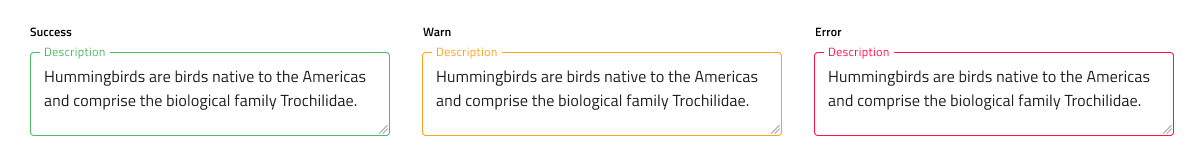
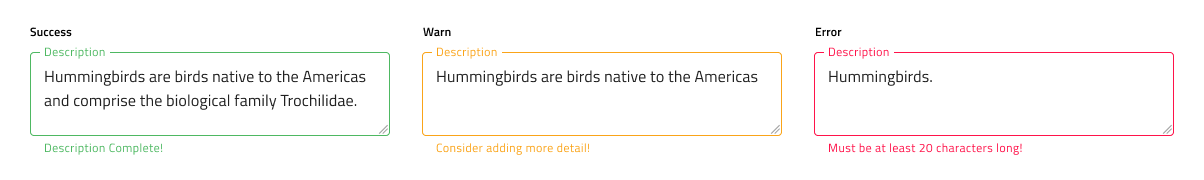
[40774] Text Area
Images and texts modified:

Hint Images removed.
Interaction State section text - modified.
Warn and Error states - image modified.
Resizing section - removed.

diff --git a/en/components/textarea.md b/en/components/textarea.md
@@ -26,39 +26,30 @@ The Text Area comes in three different sizes:
 
 
 ## Types
-In Figma we offer a choice between text area with or without a hint, which can be switched on/off through the `Hint` boolean property.
+In Figma we offer offer choice between two distinct types: border style and box style.
 
-| With a hint | Without a hint |
+| Border | Box|
 | ------- | ------- |
-| <img class="responsive-img" src="../images/textarea_hint.png" srcset="../images/textarea_hint@2x.png 2x" /> | <img class="responsive-img" src="../images/textarea_nohint.png" srcset="../images/textarea_nohint@2x.png 2x" /> |
+| <img class="responsive-img" src="../images/textarea_filled.png" srcset="../images/textarea_filled@2x.png 2x" /> | <img class="responsive-img" src="../images/textarea_filled_box.png" srcset="../images/textarea_filled_box@2x.png 2x" /> |
 
-We offer choice between two distinct types: border style and boxed style.
-
-<img class="responsive-img" src="../images/textarea_filled.png" srcset="../images/textarea_filled@2x.png 2x" /><img class="responsive-img" src="../images/textarea_filled_box.png" srcset="../images/textarea_filled_box@2x.png 2x" />
 
 ## Interaction State
 
-The Text Area can be switched from an enabled to disabled state from the `Disabled` boolean property.
+In Figma, both border and box type Text Area can be set to a Disabled state using the properties panel.
 
 <img class="responsive-img" src="../images/textarea_interaction.png" srcset="../images/textarea_interaction@2x.png 2x" /> 
 
 ## State
 
-When the user interacts with the Text Area, it goes through various states: Idle with a placeholder in the place of the content, Focused while the user is typing in it, and Filled once the user has finished adding content and moved on. These flexibility enhancements afford a more dynamic interaction design that can seamlessly flow into high-fidelity prototyping. In Figma, you can toggle between states using the `State` property in the right properties panel.
+The Text Area component supports five states for the enabled variants: Idle, Idle & Hover, Filled, Filled & Hover and Focused. These flexibility enhancements afford a more dynamic interaction design that can seamlessly flow into high-fidelity prototyping. In Figma, you can toggle between states using the `State` property in the right properties panel.
 
 <img class="responsive-img" src="../images/textarea_states.png" srcset="../images/textarea_states@2x.png 2x" /> 
 
-Every experienced designer uses constraints wisely to limit the user input and avoid invalid states, hen ce the availability of validation styles. Through the available validation styles, the Text Area is equipped for sophisticated designs that display Success, Warning, and Error visuals.
+Every experienced designer uses constraints wisely to limit the user input and avoid invalid states, hence the availability of validation styles. Through the available validation styles, the Text Area is equipped for sophisticated designs that display Success, Warning, and Error visuals.
 
 <img class="responsive-img" src="../images/textarea_validation.png" srcset="../images/textarea_validation@2x.png 2x" /> 
 
 In Figma, states can be easily switched from the `State` property on the right properties panel.
-
-## Resizing
-
-The Text Area lets the user resize the area horizontally and vertically by a drag indicator located in the bottom right corner while adjusting text automatically to fit the new constraints.
-
-<img class="responsive-img" src="../images/textarea_resizing.png" srcset="../images/textarea_resizing@2x.png 2x" />
 
 ## Styling
 
